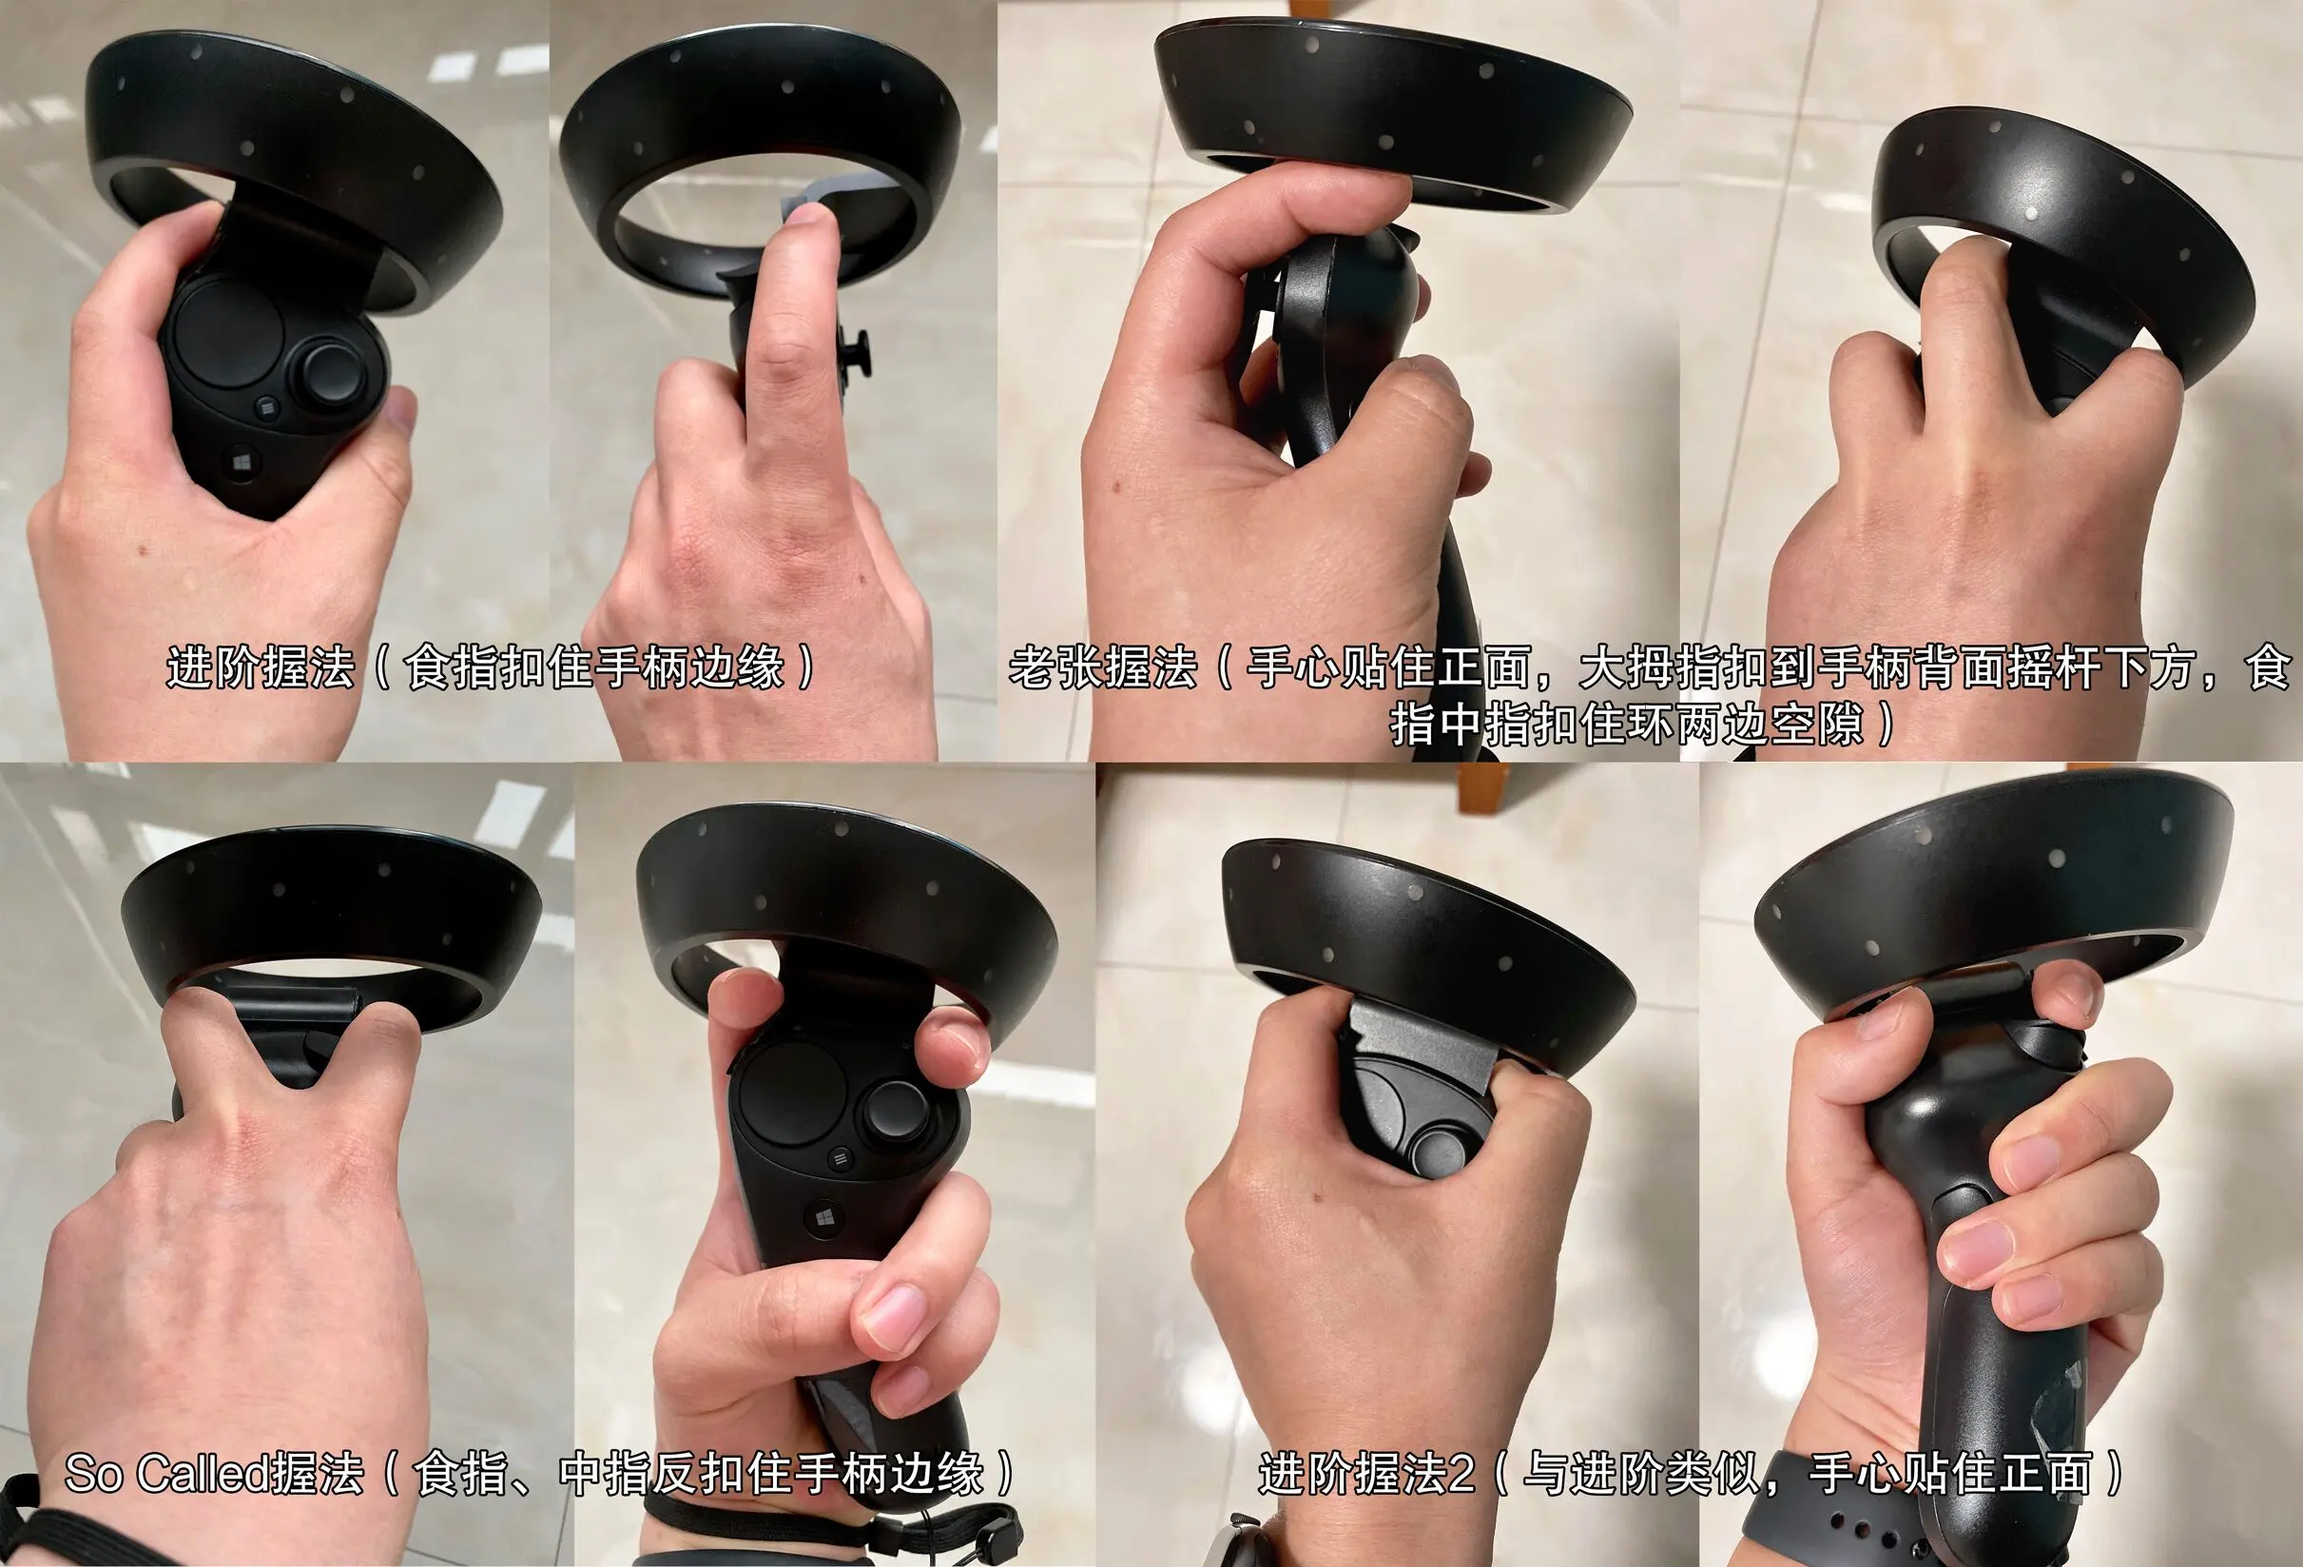
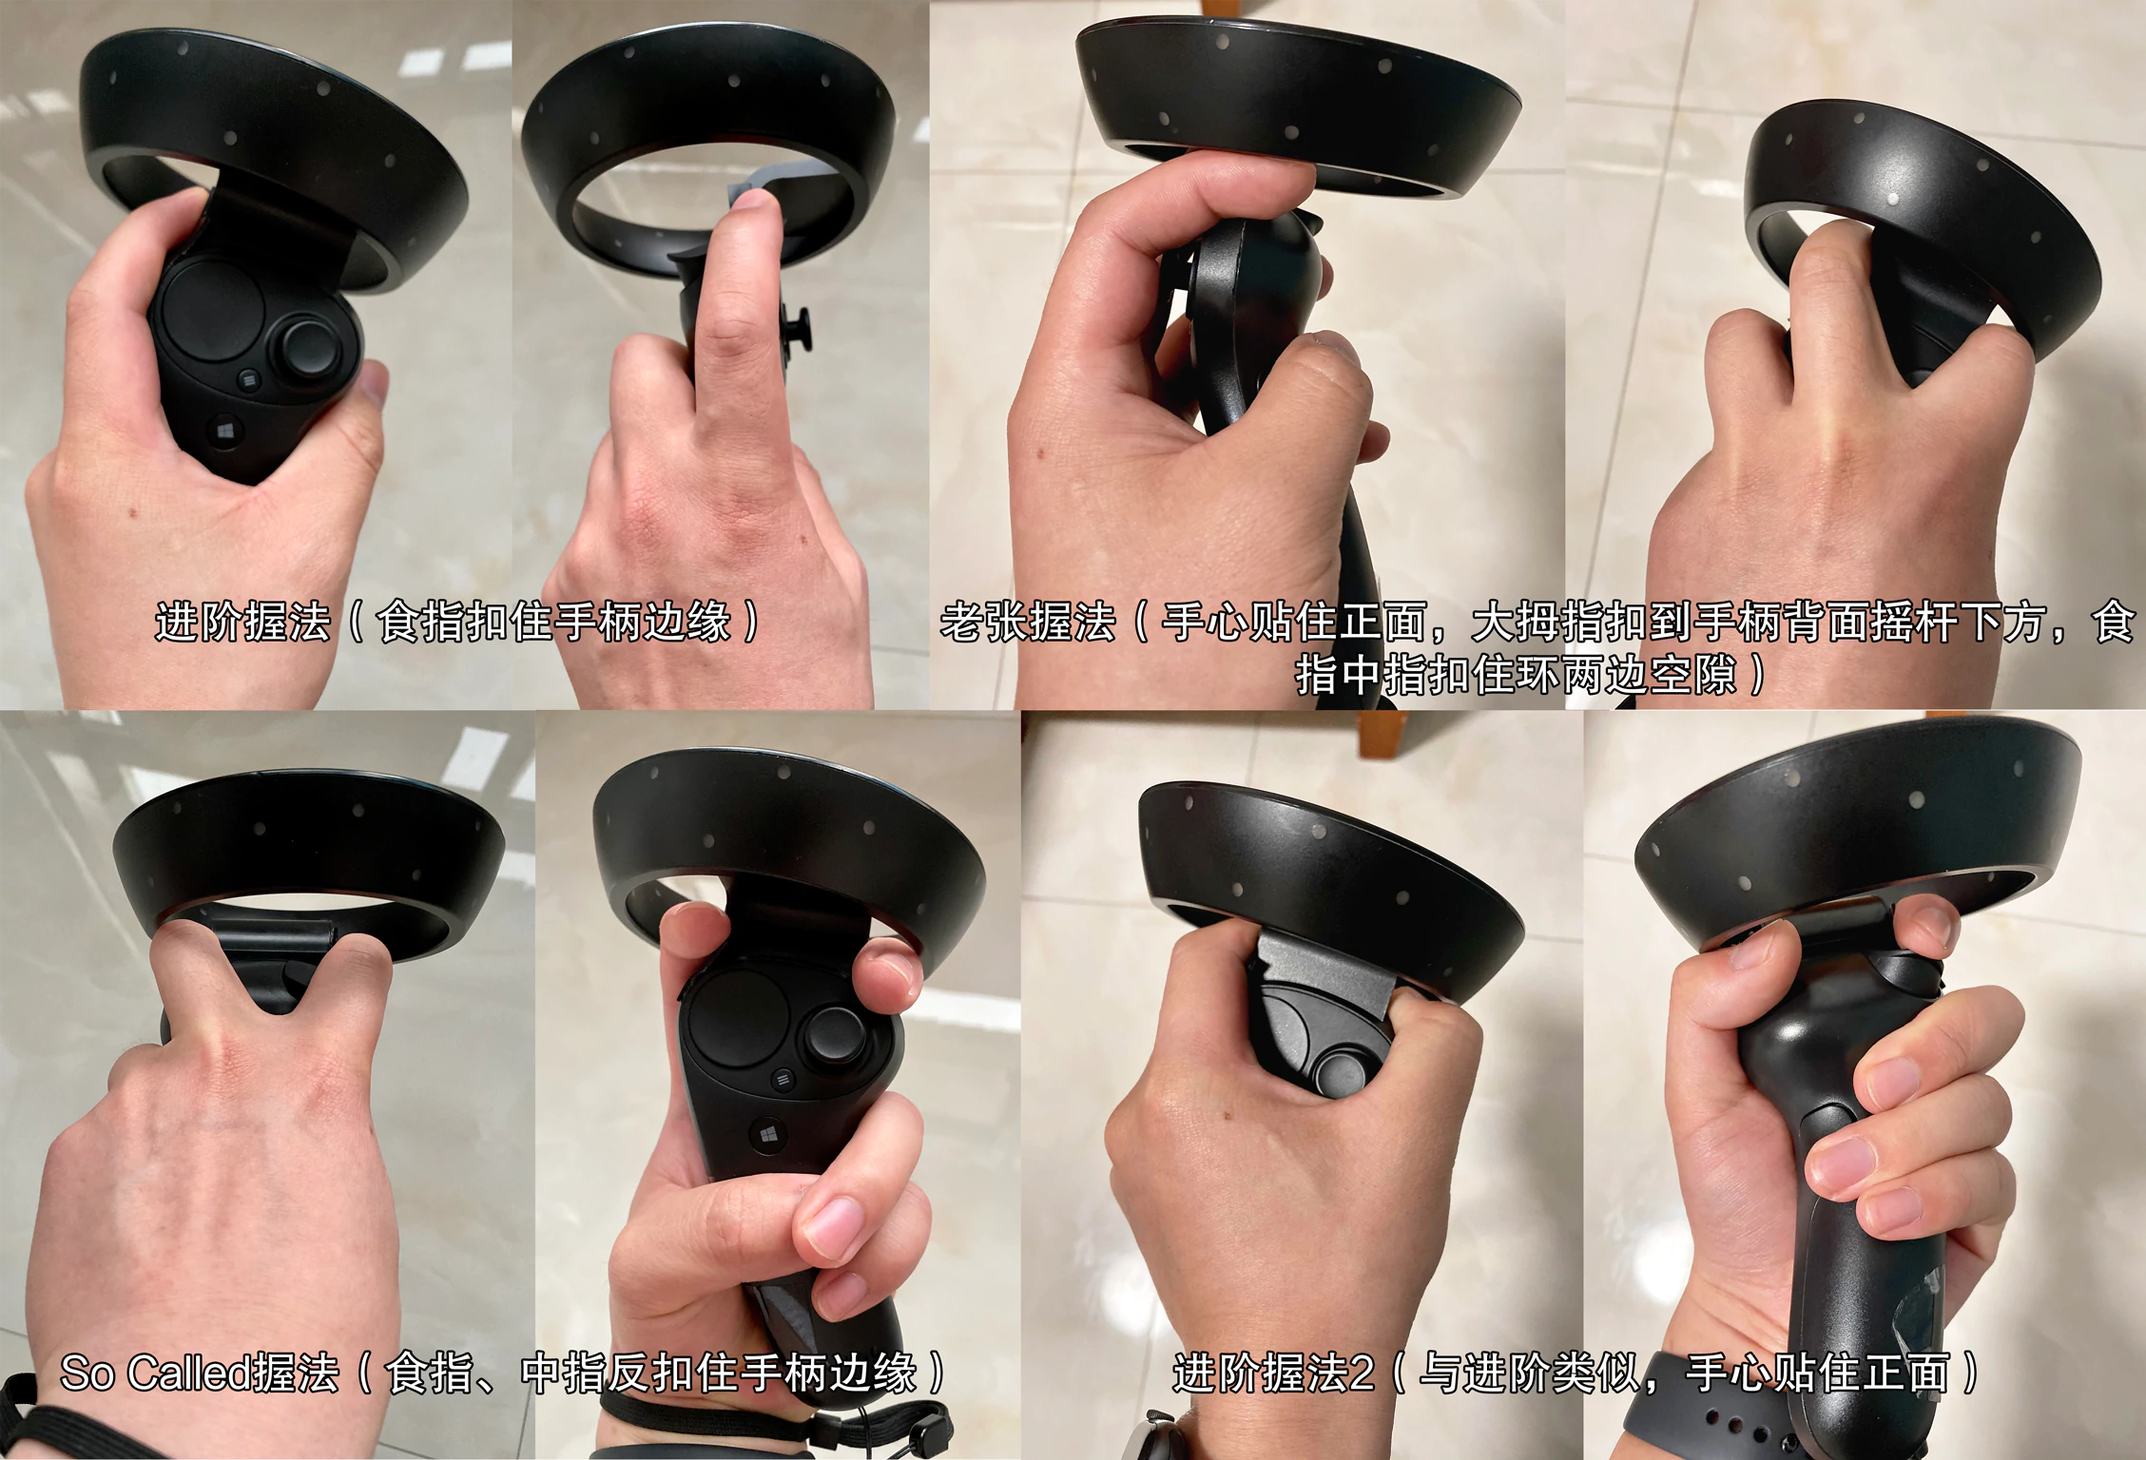
调整图片

diff --git a/score.html b/score.html
@@ -24,8 +24,8 @@
 			<h1 style="text-align: center;">更好地了解Rank系统、计分和加成项等内容的指南</h1>
 			<!--p style="text-align: center;">一些地方可能读起来不通顺是由于站长是中学生，对于语言的造诣并没有那么高，已经尽力润色翻译后的语句了。</p-->
 			<p style="text-align: center;">由<a href="https://bsaber.com/members/teknozfr/" target="_blank">TeknozFR</a>编写，<a href="https://space.bilibili.com/17539027" target="_blank" title="Vio">Vio</a>翻译为中文。</p>
-			<p style="text-align: center;">非常感谢<a href="https://space.bilibili.com/557131" target="_blank" title="WGzeyu">WGzeyu</a>提供的大量技术支持、<a href="https://space.bilibili.com/22596629" target="_blank" title="ani">ani</a>提供的大部分翻译支持，以及精神支持、<a href="https://scoresaber.com/u/76561198146815165" target="_blank" title="waika">waika</a>提供的部分翻译支持，以及<a href="https://steamcommunity.com/profiles/76561198199243262/" target="_blank" title="moran">漠然轻寒</a>提供的部分翻译支持以及翻译思路。</p>
-			<p style="text-align: center;">免责声明：这个指南于2019年2月17日制作（于2020年4月13日开始被翻译成中文），原作者会尽力保持其为最新，但仍然有某些信息不准确，甚至没有记录。本教程可以让大家更好的了解rank系统和游戏的其他方面（打分），但并不是这款游戏的完整教程，希望它对您有用。</p>
+			<p style="text-align: center;">非常感谢<a href="https://space.bilibili.com/557131/" target="_blank" title="WGzeyu">WGzeyu</a>提供的大量技术支持、<a href="https://space.bilibili.com/22596629/" target="_blank" title="ani">ani</a>提供的大量翻译支持，以及精神支持、<a href="https://space.bilibili.com/5523787/" target="_blank" title="waika">waika</a>提供的部分翻译支持，以及<a href="https://steamcommunity.com/profiles/76561198199243262/" target="_blank" title="moran">漠然轻寒</a>提供的部分翻译支持以及翻译思路。</p>
+			<p style="text-align: center;">免责声明：这个指南于2019年2月17日制作（于2020年4-5月翻译），原作者会尽力保持其为最新，但仍然有某些信息不准确，甚至没有记录。本教程可以让大家更好的了解Rank计分系统和游戏的其他方面，但并不是这款游戏的完整教程，希望它对您有用。</p>
 			<!--h2 style="text-align: center;">内容导航</h2>
 			<p>1. 准度和计分</p>
 			<p>2. Rank过程</p>
@@ -79,7 +79,7 @@
 			<p>准确度可以这么理解：您目前的得分相对于满分的占比。</p>
 			<p>准确度可以在选歌页面的 Player Settings->Advanced HUD 开启，开启后准确度显示会在左侧，它以百分数和字母表示，它可以很好的反应您得分的能力。</p>
 			<p>准确度通过命中方块，分数乘数，还有丢失方块来计算。<br>下图列举了准确度和字母的关系：</p>
-			<p align="center"><img width="100%" src="assets/img/score.webp"><br>感谢<a href="https://space.bilibili.com/557131" target="_blank" title="WGzeyu">WGzeyu</a>提供的图片</p>
+			<p align="center"><img width="100%" src="assets/img/score2.webp"><br>感谢<a href="https://space.bilibili.com/557131" target="_blank" title="WGzeyu">WGzeyu</a>提供的图片</p>
 			<p>如上图，数字对应的是百分数（%），数字下方是对应的字母。<br>举个例子：如果您一首曲子打了85%，那么您对应字母的就是 S 。</p>
 
 			<h1 style="text-align: center;">Rank过程<!--Rank与Unrank--></h1>
@@ -108,14 +108,16 @@
 
 			<h3>难度</h3>
             <p>上文提到了难度是由作者自定义的，也就是说您看到的expert+或者hard都不是该谱面真实难度，而是针对于这个谱面的难度（我个人称它为 虚假难度）；所以您下载unranked的谱子的时候，可能会出现easy难度比expert+还难的情况。</p>
-			<p>这时就需要一个真实难度来给ranked谱子标注难度，真实难度用⭐表示，如下图：
-			<br><img width="61.459%" src="assets/img/rank-1.webp" title="真实难度"></p>
-		
-			<p>值得注意的是，unranked的谱子并没有真实难度（有例外，在下方做出了解释），如图：
-			<br>
-			<img width="61.459%" src="assets/img/unrank-2.webp">
-			<br>
-			<img width="61.459%" src="assets/img/unrank-1.webp"></p>
+			<p>
+				这时就需要一个真实难度来给ranked谱子标注难度，真实难度用⭐表示，如下图：<br>
+				<div style="text-align:center;"><img width="61.459%" src="assets/img/rank-1.webp" title="真实难度"></div>
+				
+			</p>
+			<p>
+				值得注意的是，unranked的谱子并没有真实难度（有例外，在下方做出了解释），如图：<br>
+				<div style="text-align:center;"><img width="61.459%" src="assets/img/unrank-2.webp"></div><br>
+				<div style="text-align:center;"><img width="61.459%" src="assets/img/unrank-1.webp"></div>
+			</p>
 			<p>所以，如果你的技术还不够好，笔者这里建议您去打一些真实难度比较低的谱子。</p>
 			<p><i>如果一首谱子被rank后又被unrank了，那么这首谱子也会保留星级；因为星级是rank组制定的</i></p>
 
@@ -125,18 +127,19 @@
 
 			<h3>我应该如何获得PP分，排名系统如何运作？</h3>
 			<p>你可以在 <a href="https://scoresaber.com/" target="_blank">scoresaber.com</a> 直接搜索你的steam昵称或oculus账户名（注意先切换到global ranking，默认页面是搜索歌曲名）</p>
-			<img src="assets/img/search.webp" width="85%" title="搜索分数">
-			</br>
+			<p align="center">
+				<img src="assets/img/s1.webp" width="100%"><br>
+				<img src="assets/img/s2.webp" width="100%">
+			</p>
 			<p>PP即Performance Points，通过打被rank的谱面得到（即俗称的pp曲）。一张谱面的PP值是rank组通过算法以及人工修正得到的，一般来说越难的谱面PP越高。</p>
 			<p>为了防止被恶意运用，该算法是保密的。你获得的pp与你的完成度挂钩，具体如下曲线（橙色新曲线）：</p>
-			<img src="assets/img/PPv3.2.webp" width="85%" title="PP曲线">
-			<p align="center">感谢<a href="https://space.bilibili.com/557131" target="_blank" title="WGzeyu">WGzeyu</a>提供的图片</p>
+			<p align="center"><img src="assets/img/PPv3.2.webp" width="100%" title="PP曲线"><br>感谢<a href="https://space.bilibili.com/557131" target="_blank" title="WGzeyu">WGzeyu</a>提供的图片</p>
 
 			<h3>PP系统如何工作，什么是加权PP？</h3>
-			<p>玩家总pp的计算方法是 该曲获得 PP*0.965^(n-1) ，n为你所有刷过pp曲得到的pp数量从大到小排序的序数（详见图片）。</p>
+			<p>玩家总pp的计算方法是 该曲获得 PP*0.965^(n-1) ，n为你所有刷过pp曲得到的pp数量从大到小排序的序数（详见图片）。<img src="assets/img/jiaquan.webp" width="25.130%" style="float:right; margin: 10px;"></p>
 			<p>你会发现在你的scoresaber主页中歌曲后的pp数值有两个。蓝色的指你获得的pp（后统称获得pp），而括号内的灰色pp指计算上述计算过 PP*0.965^(n-1) 后得到的实际pp（后统称实际pp）。</p>
-			<img src="assets/img/song.webp" width="85%" title="PP系统">
-
+			<p align="center"><img src="assets/img/song2.webp" width="100%" title="PP系统"></p>
+			
 			<h3>为什么我的总PP不如我在新分数中获得的加权PP那样快？</h3>
 			<p>每当你刷完一首新pp曲，总pp增加量并不等于这首歌的实际pp，因为排在这首歌之后的歌都会被往后挤一个位置并被多乘一次0.965^(n-1)。当你把某一首歌的完成度刷的更高，如果这首歌的排名位置没有变，则总pp增量等于实际pp增量。</p>
 
@@ -180,16 +183,16 @@
 			<p>无论使用哪种VR设备游玩BeatSaber，握法都是很重要的，因为它可以改善游戏体验（尤其是VIVE玩家）。打速度较快，交叉较多的歌时，正常的握法就会出现一些问题，例如VIVE的手柄非常沉，所以需要用更大的力来击打，但是这会对你的手腕和手臂造成劳损。越玩到后期你越会发现用手腕打歌会比用手臂轻松得多。下面列举出了一些常用的握法，如果以下的握法都不合适的话，你可以使用对于你来说比较舒适的握法。</p>
 
 			<h3>HTC Vive：</h3>
-			<img src="assets/img/vive.webp" width="85%" title="vive">
+			<p><img src="assets/img/vive.webp" width="100%" title="vive"></p>
 
 			<h3>Oculus Rift CV1：</h3>
-			<img src="assets/img/cv1.webp" width="85%" title="cv1">
+			<p><img src="assets/img/cv1.webp" width="100%" title="cv1"></p>
 
 			<h3>Oculus Rift S：</h3>
-			<p>待补充，可联系QQ1165837178 或者 加入QQ群941873202 @群内xxxx果子狸来补充</p>
+			<p><img src="assets/img/ocs.webp" width="100%" title="ocs"></p>
 
 			<h3>Windows Mixed Reality：</h3>
-			<img src="assets/img/MR.webp" width="85%" title="MR">
+			<p><img src="assets/img/MR.webp" width="100%" title="MR"></p>
 
 			<h3>Valve Index：</h3>
 			<p>待补充，可联系QQ1165837178 或者 加入QQ群941873202 @群内xxxx果子狸来补充</p>
